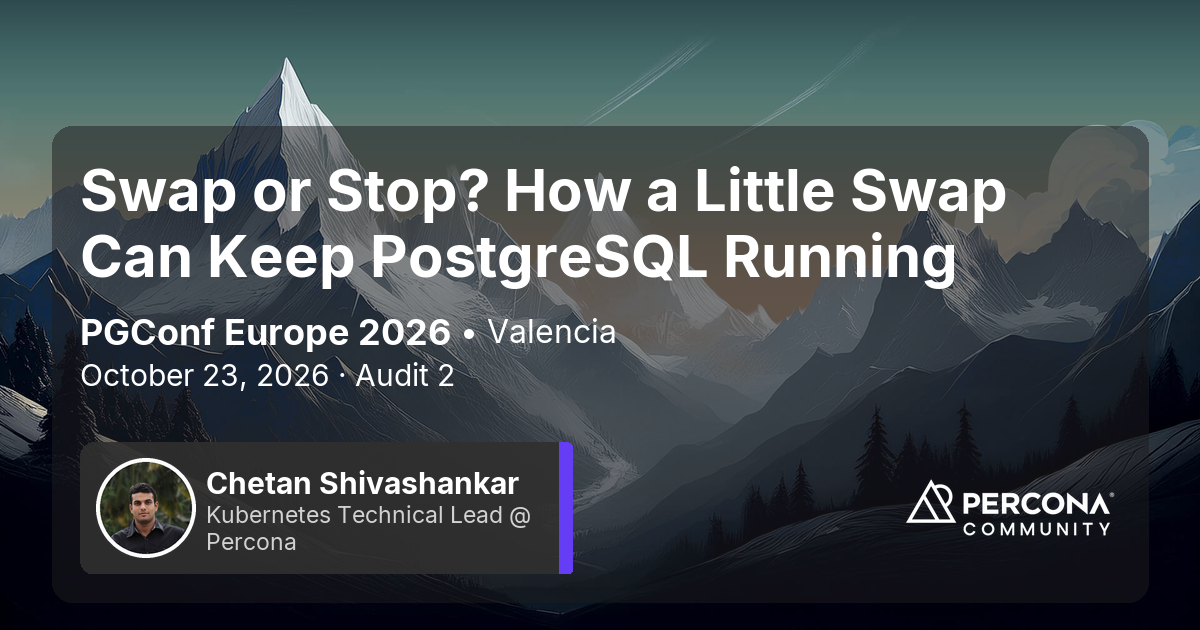
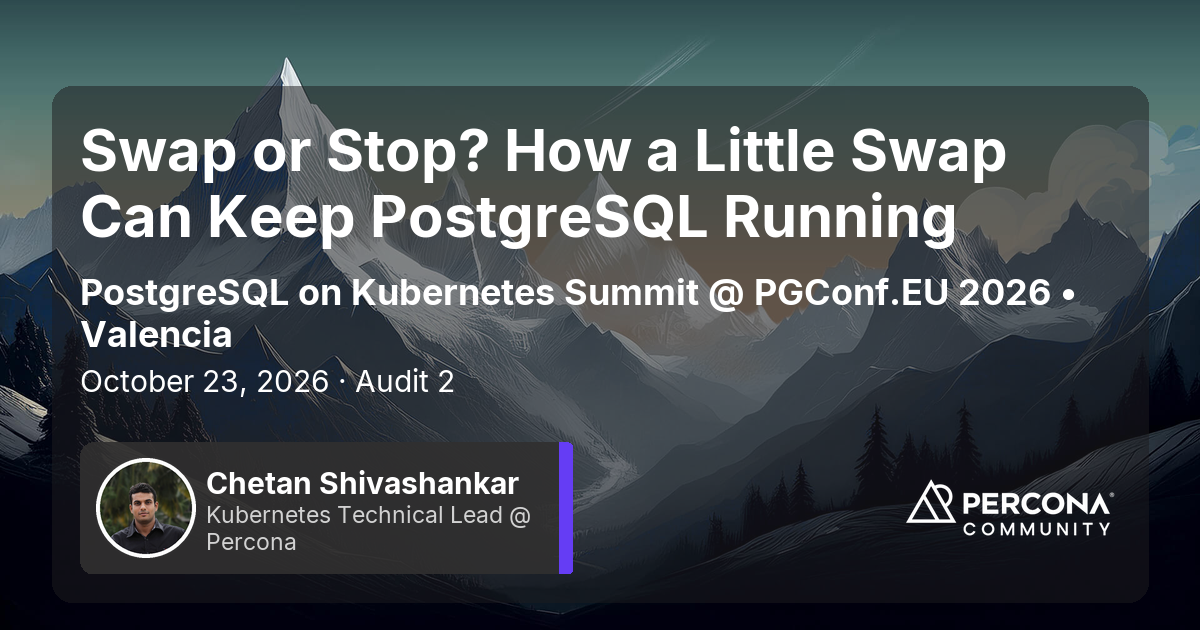
OSMC 2026 and PGConf K8S (#1316)

Changed region(s): [[0.0308, 0.1206, 0.9558, 0.6333]]

diff --git a/layouts/partials/talks/community-event.html b/layouts/partials/talks/community-event.html
@@ -1,17 +1,28 @@
 {{/*
   Resolve a community event page for a talk:
-  1) Params.event_jira → events with matching Params.jira
+  1) Params.event_jira → events with matching Params.jira or Params.jira_also
   2) Params.event → events with matching Title
   Returns the Page or false.
+  Skips events with build.list = never (duplicate stubs).
 */}}
 {{ $eventPage := false }}
 {{ $jira := .Params.event_jira | default "" }}
 {{ $title := .Params.event | default "" }}
 {{ range where site.RegularPages "Section" "events" }}
-  {{ if and $jira .Params.jira (eq (printf "%s" .Params.jira) (printf "%s" $jira)) }}
-    {{ $eventPage = . }}
-  {{ else if and (not $eventPage) $title (eq .Title $title) }}
-    {{ $eventPage = . }}
+  {{ $ev := . }}
+  {{ $list := "" }}
+  {{ with .Params.build }}{{ $list = printf "%s" (.list | default "") }}{{ end }}
+  {{ if eq $list "never" }}{{ continue }}{{ end }}
+  {{ if and $jira $ev.Params.jira (eq (printf "%s" $ev.Params.jira) (printf "%s" $jira)) }}
+    {{ $eventPage = $ev }}
+  {{ else if and $jira $ev.Params.jira_also }}
+    {{ $also := $ev.Params.jira_also }}
+    {{ if not (reflect.IsSlice $also) }}{{ $also = slice $also }}{{ end }}
+    {{ range $also }}
+      {{ if eq (printf "%s" .) (printf "%s" $jira) }}{{ $eventPage = $ev }}{{ end }}
+    {{ end }}
+  {{ else if and (not $eventPage) $title (eq $ev.Title $title) }}
+    {{ $eventPage = $ev }}
   {{ end }}
 {{ end }}
 {{ return $eventPage }}

diff --git a/layouts/partials/events/related-talks.html b/layouts/partials/events/related-talks.html
@@ -2,11 +2,13 @@
   Auto-list talks related to this event page as talk cards
   (same card as talk hub / Params.talks override).
 
-  Match: talk.event_jira == event.jira, else talk.event == event.Title
-  (if talk has a non-matching event_jira, do not fall back to title).
+  Match: talk.event_jira == event.jira (or any event.jira_also),
+  else talk.event == event.Title when talk has no event_jira.
 */}}
 {{ $event := . }}
 {{ $jira := printf "%s" ($event.Params.jira | default "") }}
+{{ $also := $event.Params.jira_also | default (slice) }}
+{{ if not (reflect.IsSlice $also) }}{{ $also = slice $also }}{{ end }}
 {{ $title := $event.Title }}
 {{ $matched := slice }}
 
@@ -14,8 +16,13 @@
   {{ $talkJira := printf "%s" (.Params.event_jira | default "") }}
   {{ $talkEvent := .Params.event | default "" }}
   {{ $ok := false }}
-  {{ if and $jira $talkJira }}
-    {{ if eq $talkJira $jira }}{{ $ok = true }}{{ end }}
+  {{ if $talkJira }}
+    {{ if and $jira (eq $talkJira $jira) }}{{ $ok = true }}{{ end }}
+    {{ if not $ok }}
+      {{ range $also }}
+        {{ if eq $talkJira (printf "%s" .) }}{{ $ok = true }}{{ end }}
+      {{ end }}
+    {{ end }}
   {{ else if and $title $talkEvent (eq $talkEvent $title) }}
     {{ $ok = true }}
   {{ end }}

diff --git a/content/events/2026-osmc/index.md b/content/events/2026-osmc/index.md
@@ -1,19 +1,25 @@
 ---
 title: OSMC 2026
-description: OSMC 2026 · 2026-11-17 – 2026-11-19 · Nuremberg · 1 talk from Percona
+description: 'OSMC 2026 is the 20th Open Source Monitoring Conference — workshops and talks on monitoring and observability, November 17–19 in Nuremberg. Percona engineers are speaking.'
 layout: single
-source: jira
+# Hand-merged from SPEAK-1638 + SPEAK-2949 (same osmc.de). No source:jira so sync keeps aliases/copy.
 jira: SPEAK-2949
 speakers:
 - kris_buytaert
+- radoslaw_szulgo
+- sandra_romanchenko
 date: '2026-11-17'
 event_date_end: '2026-11-19'
+EventDate: November 17–19, 2026
+EventLocation: Nuremberg, Germany
 event_url: https://osmc.de/
 event_location: Nuremberg
 tags:
 - Event
 - opensource
 - speaking
+- monitoring
+- observability
 events_year:
 - '2026'
 events_category:
@@ -22,11 +28,17 @@ events_tag:
 - In-Person
 images:
 - events/2026-osmc/card.png
+aliases:
+- /events/2026-open-source-monitoring-conference/
 ---
-**OSMC 2026** takes place **2026-11-17 – 2026-11-19** in **Nuremberg**.
 
-Conference site: [https://osmc.de/](https://osmc.de/)
+**OSMC 2026** is the **Open Source Monitoring Conference** — twentieth anniversary edition. Three days in **Nuremberg** for people who build and run monitoring and observability stacks: workshops, talks, and plenty of hallway time with the same community that ships the tools.
 
-Percona presence: **Speaking**.
+- 📅 **November 17–19, 2026** — workshops on the 17th; conference talks on the 18th–19th
+- 📍 **Nuremberg, Germany**
+- 🏛 **Venue:** Scandic Nürnberg Central (Frauentorgraben 11)
+- 🔗 **Official website:** [https://osmc.de/](https://osmc.de/)
 
-Follow [Percona Community](https://percona.community/) for more open source database talks and events.
+OSMC stays focused on **open source** monitoring and observability — comparing approaches, sharing production war stories, and meeting the maintainers and operators who work on this day to day. Sessions are in English; talks are recorded for attendees.
+
+Percona is there with talks on open source monitoring history and vector-search observability. If you are at OSMC, come say hello and compare notes.

diff --git a/content/events/2026-postgresql-on-kubernetes-summit/index.md b/content/events/2026-postgresql-on-kubernetes-summit/index.md
@@ -1,0 +1,43 @@
+---
+title: 'PostgreSQL on Kubernetes Summit @ PGConf.EU 2026'
+description: 'Community event at PGConf.EU 2026 — half a day on Postgres operators, backups, and production stories on Kubernetes. October 23 in Valencia; Chetan Shivashankar and George Kechagias speak for Percona.'
+images:
+- events/2026-postgresql-on-kubernetes-summit/card.png
+layout: single
+speakers:
+- chetan_shivashankar
+- george_kechagias
+date: '2026-10-23'
+event_date_end: '2026-10-23'
+EventDate: October 23, 2026
+EventLocation: Valencia, Spain
+event_url: https://2026.pgconf.eu/community-events/pg_on_kubernetes/
+event_location: Valencia, Spain
+tags:
+- Community
+- Events
+- PostgreSQL
+- Kubernetes
+events_year:
+- '2026'
+events_tag:
+- In-Person
+- PostgreSQL
+- Kubernetes
+- Community
+events_category:
+- Speaking
+---
+**PostgreSQL on Kubernetes Summit @ PGConf.EU 2026** is a Community Events Day session — afternoon talks and panels on running PostgreSQL in cloud-native environments. Operators, backups, observability, and production lessons, with maintainers and practitioners in the same room.
+
+- 📅 **October 23, 2026** · 13:30–16:45
+- 📍 **Valencia, Spain** · Room **Audit 2** (Palacio de Congresos)
+- 🔗 **Event page:** [PostgreSQL on Kubernetes Summit](https://2026.pgconf.eu/community-events/pg_on_kubernetes/)
+- 🏛 Hosted during [PGConf Europe 2026](/events/2026-pgconf-europe/)
+
+Organised by Gülçin Yıldırım Jelinek and Floor Drees. Format: short talks plus panel Q&A.
+
+Percona engineers speaking:
+
+- **Chetan Shivashankar** — [Swap or Stop? How a Little Swap Can Keep PostgreSQL Running](/talks/2026/2026-10-23-swap-or-stop-how-a-little-swap-can-keep-postgresql-running/)
+- **George Kechagias** — [The Anatomy of a PostgreSQL Backup CRD: pgBackRest, Multi-Repo, and Tiered Storage](/talks/2026/2026-10-23-the-anatomy-of-a-postgresql-backup-crd-pgbackrest-multi-repo-and-tiered-storage/)

diff --git a/content/events/2026-pgconf-europe/index.md b/content/events/2026-pgconf-europe/index.md
@@ -39,3 +39,12 @@ Percona is a **Gold sponsor** at **PGConf Europe**, October 20-23 in **Valencia*
 Stop by the **Percona booth** in the exhibit hall. Our PostgreSQL engineers are there for practical conversations — migrations, replication, performance, backups, extensions, and the operational problems you are working through now. We will have swag and a few giveaways at the booth.
 
 Several Perconians are also speaking and volunteering across the conference. If you are attending, come say hello and talk **PostgreSQL**.
+
+### Community Events Day — PostgreSQL on Kubernetes Summit @ PGConf.EU 2026
+
+On **October 23** (Community Events Day), PGConf.EU hosts the **[PostgreSQL on Kubernetes Summit](/events/2026-postgresql-on-kubernetes-summit/)** — half a day in **Audit 2** (13:30–16:45) on operators, backups, and production stories. Details and full schedule: [2026.pgconf.eu/community-events/pg_on_kubernetes](https://2026.pgconf.eu/community-events/pg_on_kubernetes/).
+
+Percona talks at the Summit:
+
+- **Chetan Shivashankar** — [Swap or Stop? How a Little Swap Can Keep PostgreSQL Running](/talks/2026/2026-10-23-swap-or-stop-how-a-little-swap-can-keep-postgresql-running/)
+- **George Kechagias** — [The Anatomy of a PostgreSQL Backup CRD: pgBackRest, Multi-Repo, and Tiered Storage](/talks/2026/2026-10-23-the-anatomy-of-a-postgresql-backup-crd-pgbackrest-multi-repo-and-tiered-storage/)

diff --git a/content/talks/2026/2026-10-23-swap-or-stop-how-a-little-swap-can-keep-postgresql-running.md b/content/talks/2026/2026-10-23-swap-or-stop-how-a-little-swap-can-keep-postgresql-running.md
@@ -11,12 +11,12 @@ presentation_date_end: ''
 presentation_time: ''
 room: Audit 2
 talk_year: '2026'
-event: PGConf Europe 2026
-event_jira: SPEAK-1476
+event: PostgreSQL on Kubernetes Summit @ PGConf.EU 2026
+event_jira: ''
 event_status: Accepted
-event_date_start: '2026-10-20'
+event_date_start: '2026-10-23'
 event_date_end: '2026-10-23'
-event_url: https://2026.pgconf.eu
+event_url: https://2026.pgconf.eu/community-events/pg_on_kubernetes/
 event_location: Valencia
 talk_tags:
 - PostgreSQL

diff --git a/content/talks/2026/2026-10-23-the-anatomy-of-a-postgresql-backup-crd-pgbackrest-multi-repo-and-tiered-storage.md b/content/talks/2026/2026-10-23-the-anatomy-of-a-postgresql-backup-crd-pgbackrest-multi-repo-and-tiered-storage.md
@@ -12,12 +12,12 @@ presentation_date_end: ''
 presentation_time: ''
 room: Audit 2
 talk_year: '2026'
-event: PGConf Europe 2026
-event_jira: SPEAK-1476
+event: PostgreSQL on Kubernetes Summit @ PGConf.EU 2026
+event_jira: ''
 event_status: Accepted
-event_date_start: '2026-10-20'
+event_date_start: '2026-10-23'
 event_date_end: '2026-10-23'
-event_url: https://2026.pgconf.eu
+event_url: https://2026.pgconf.eu/community-events/pg_on_kubernetes/
 event_location: Valencia
 talk_tags:
 - PostgreSQL

diff --git a/content/talks/2026/2026-11-18-observability-for-vector-search-why-your-green-dashboard-is-lying-to-you.md b/content/talks/2026/2026-11-18-observability-for-vector-search-why-your-green-dashboard-is-lying-to-you.md
@@ -11,13 +11,13 @@ presentation_date: '2026-11-18'
 presentation_date_end: ''
 presentation_time: ''
 talk_year: '2026'
-event: Open Source Monitoring Conference 2026
-event_jira: SPEAK-1638
+event: OSMC 2026
+event_jira: SPEAK-2949
 event_status: Accepted
 event_date_start: '2026-11-17'
 event_date_end: '2026-11-19'
-event_url: https://osmc.de
-event_location: Germany
+event_url: https://osmc.de/
+event_location: Nuremberg
 talk_tags:
 - MongoDB
 - PMM
